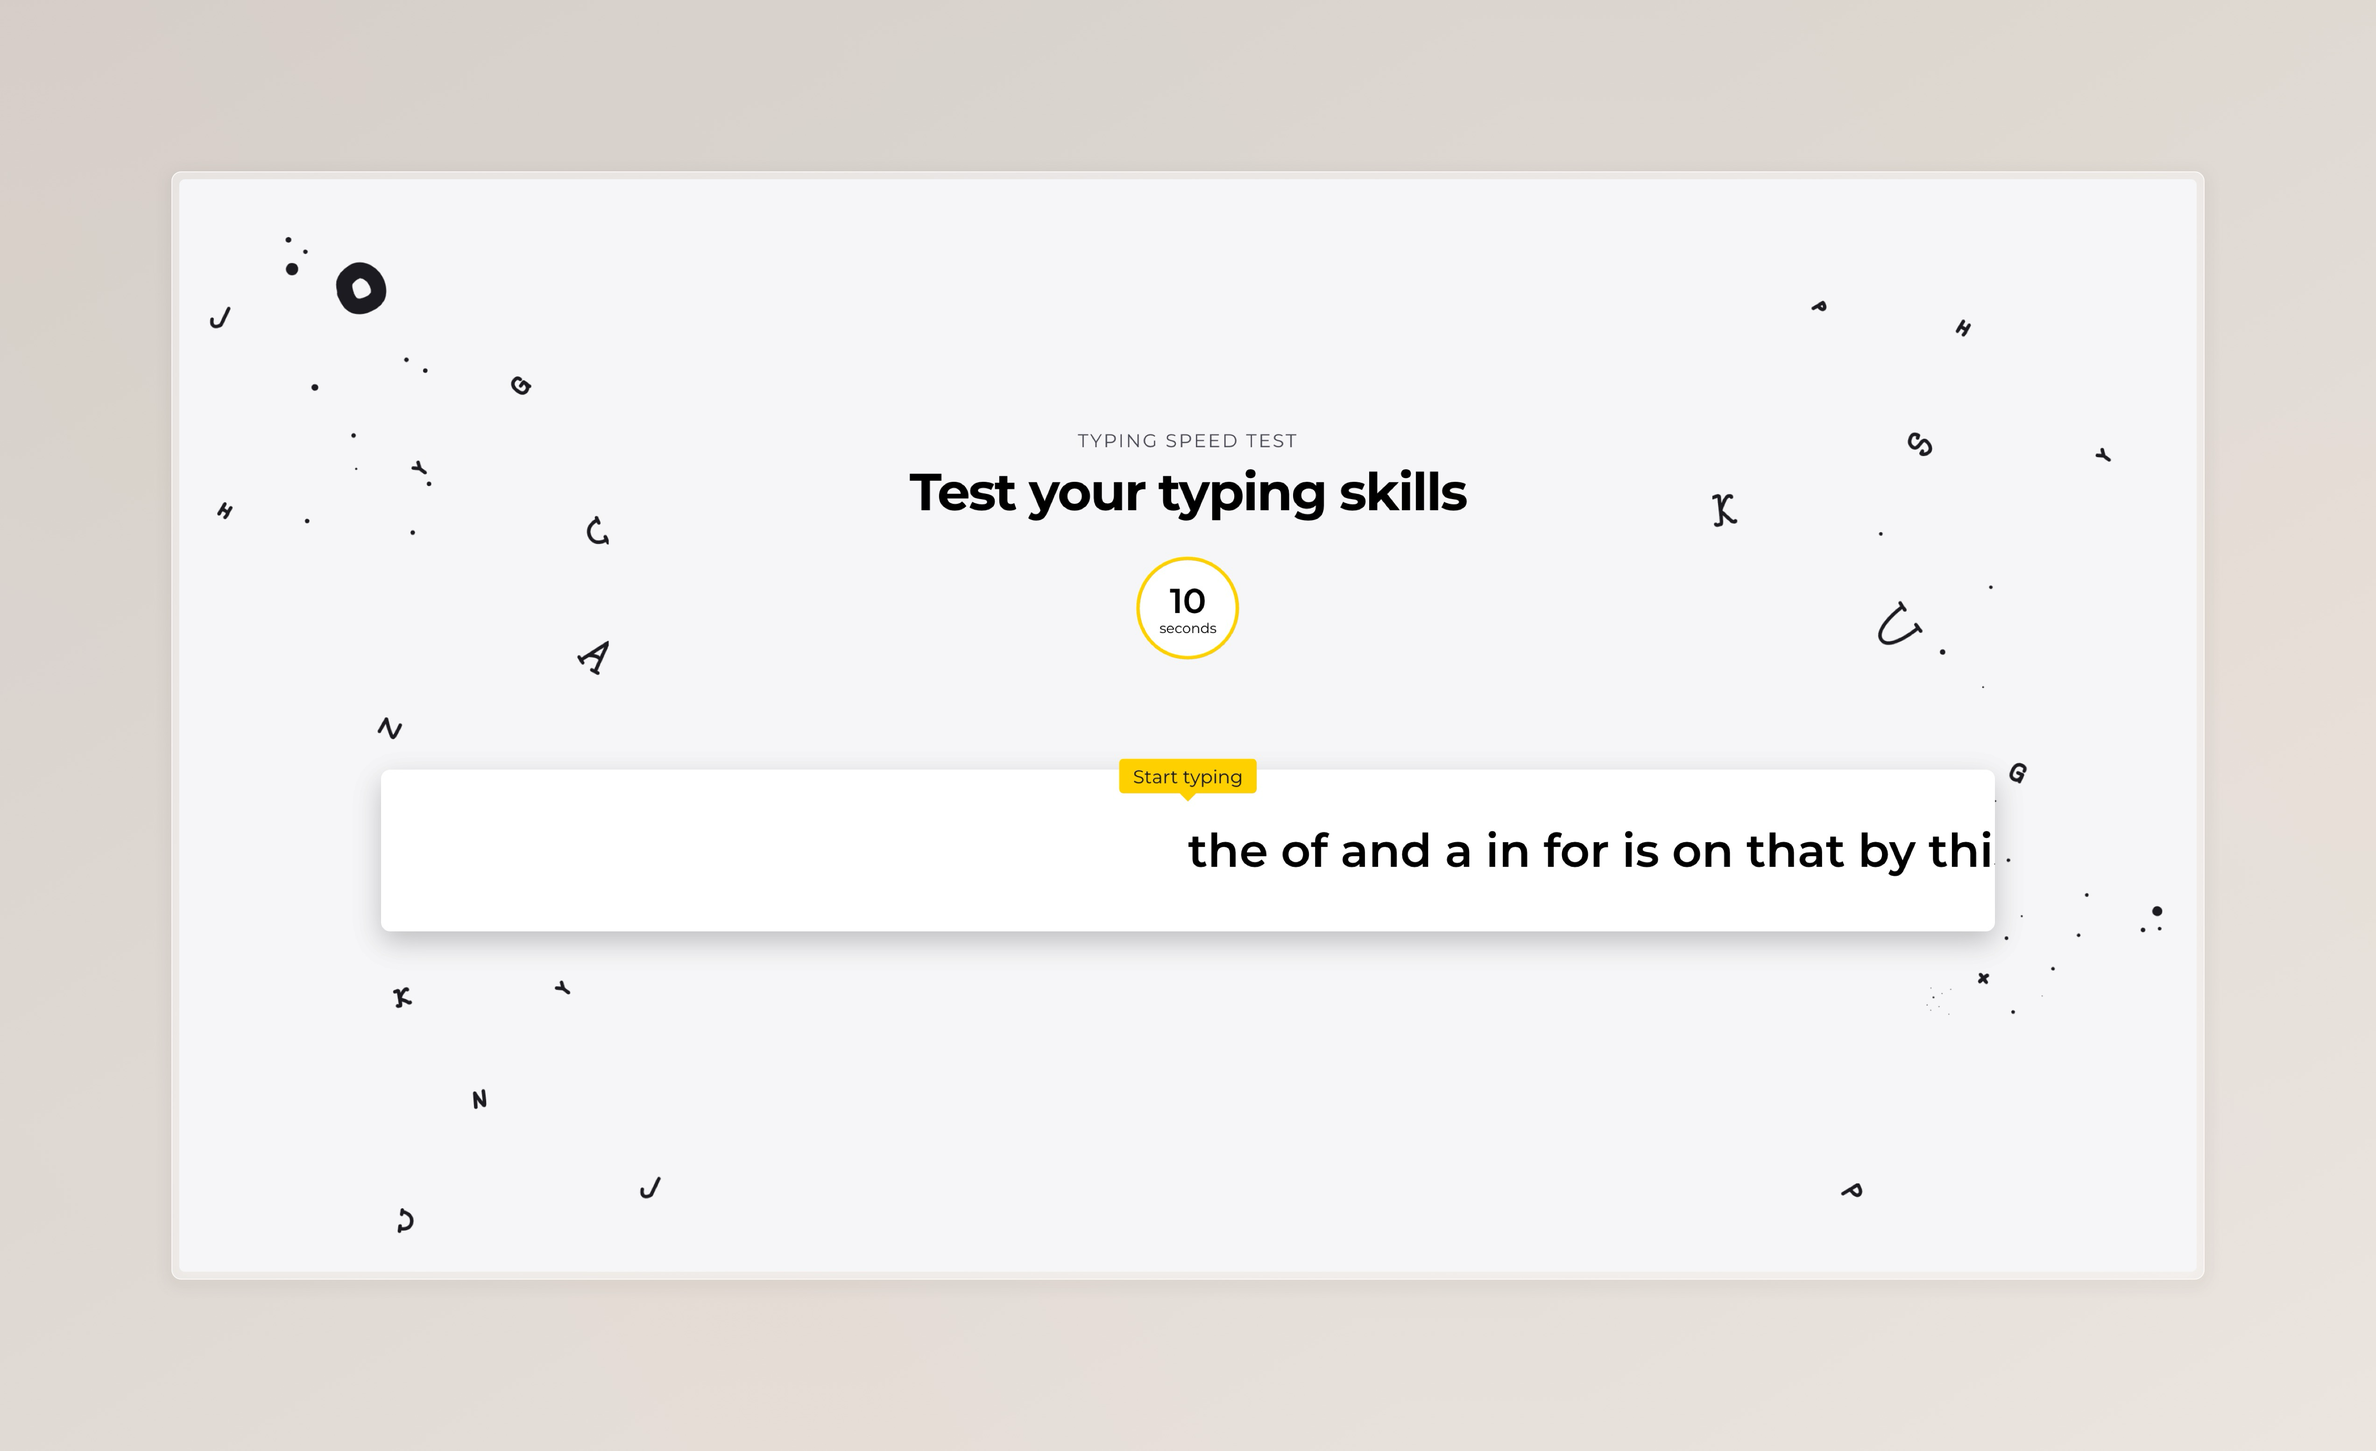
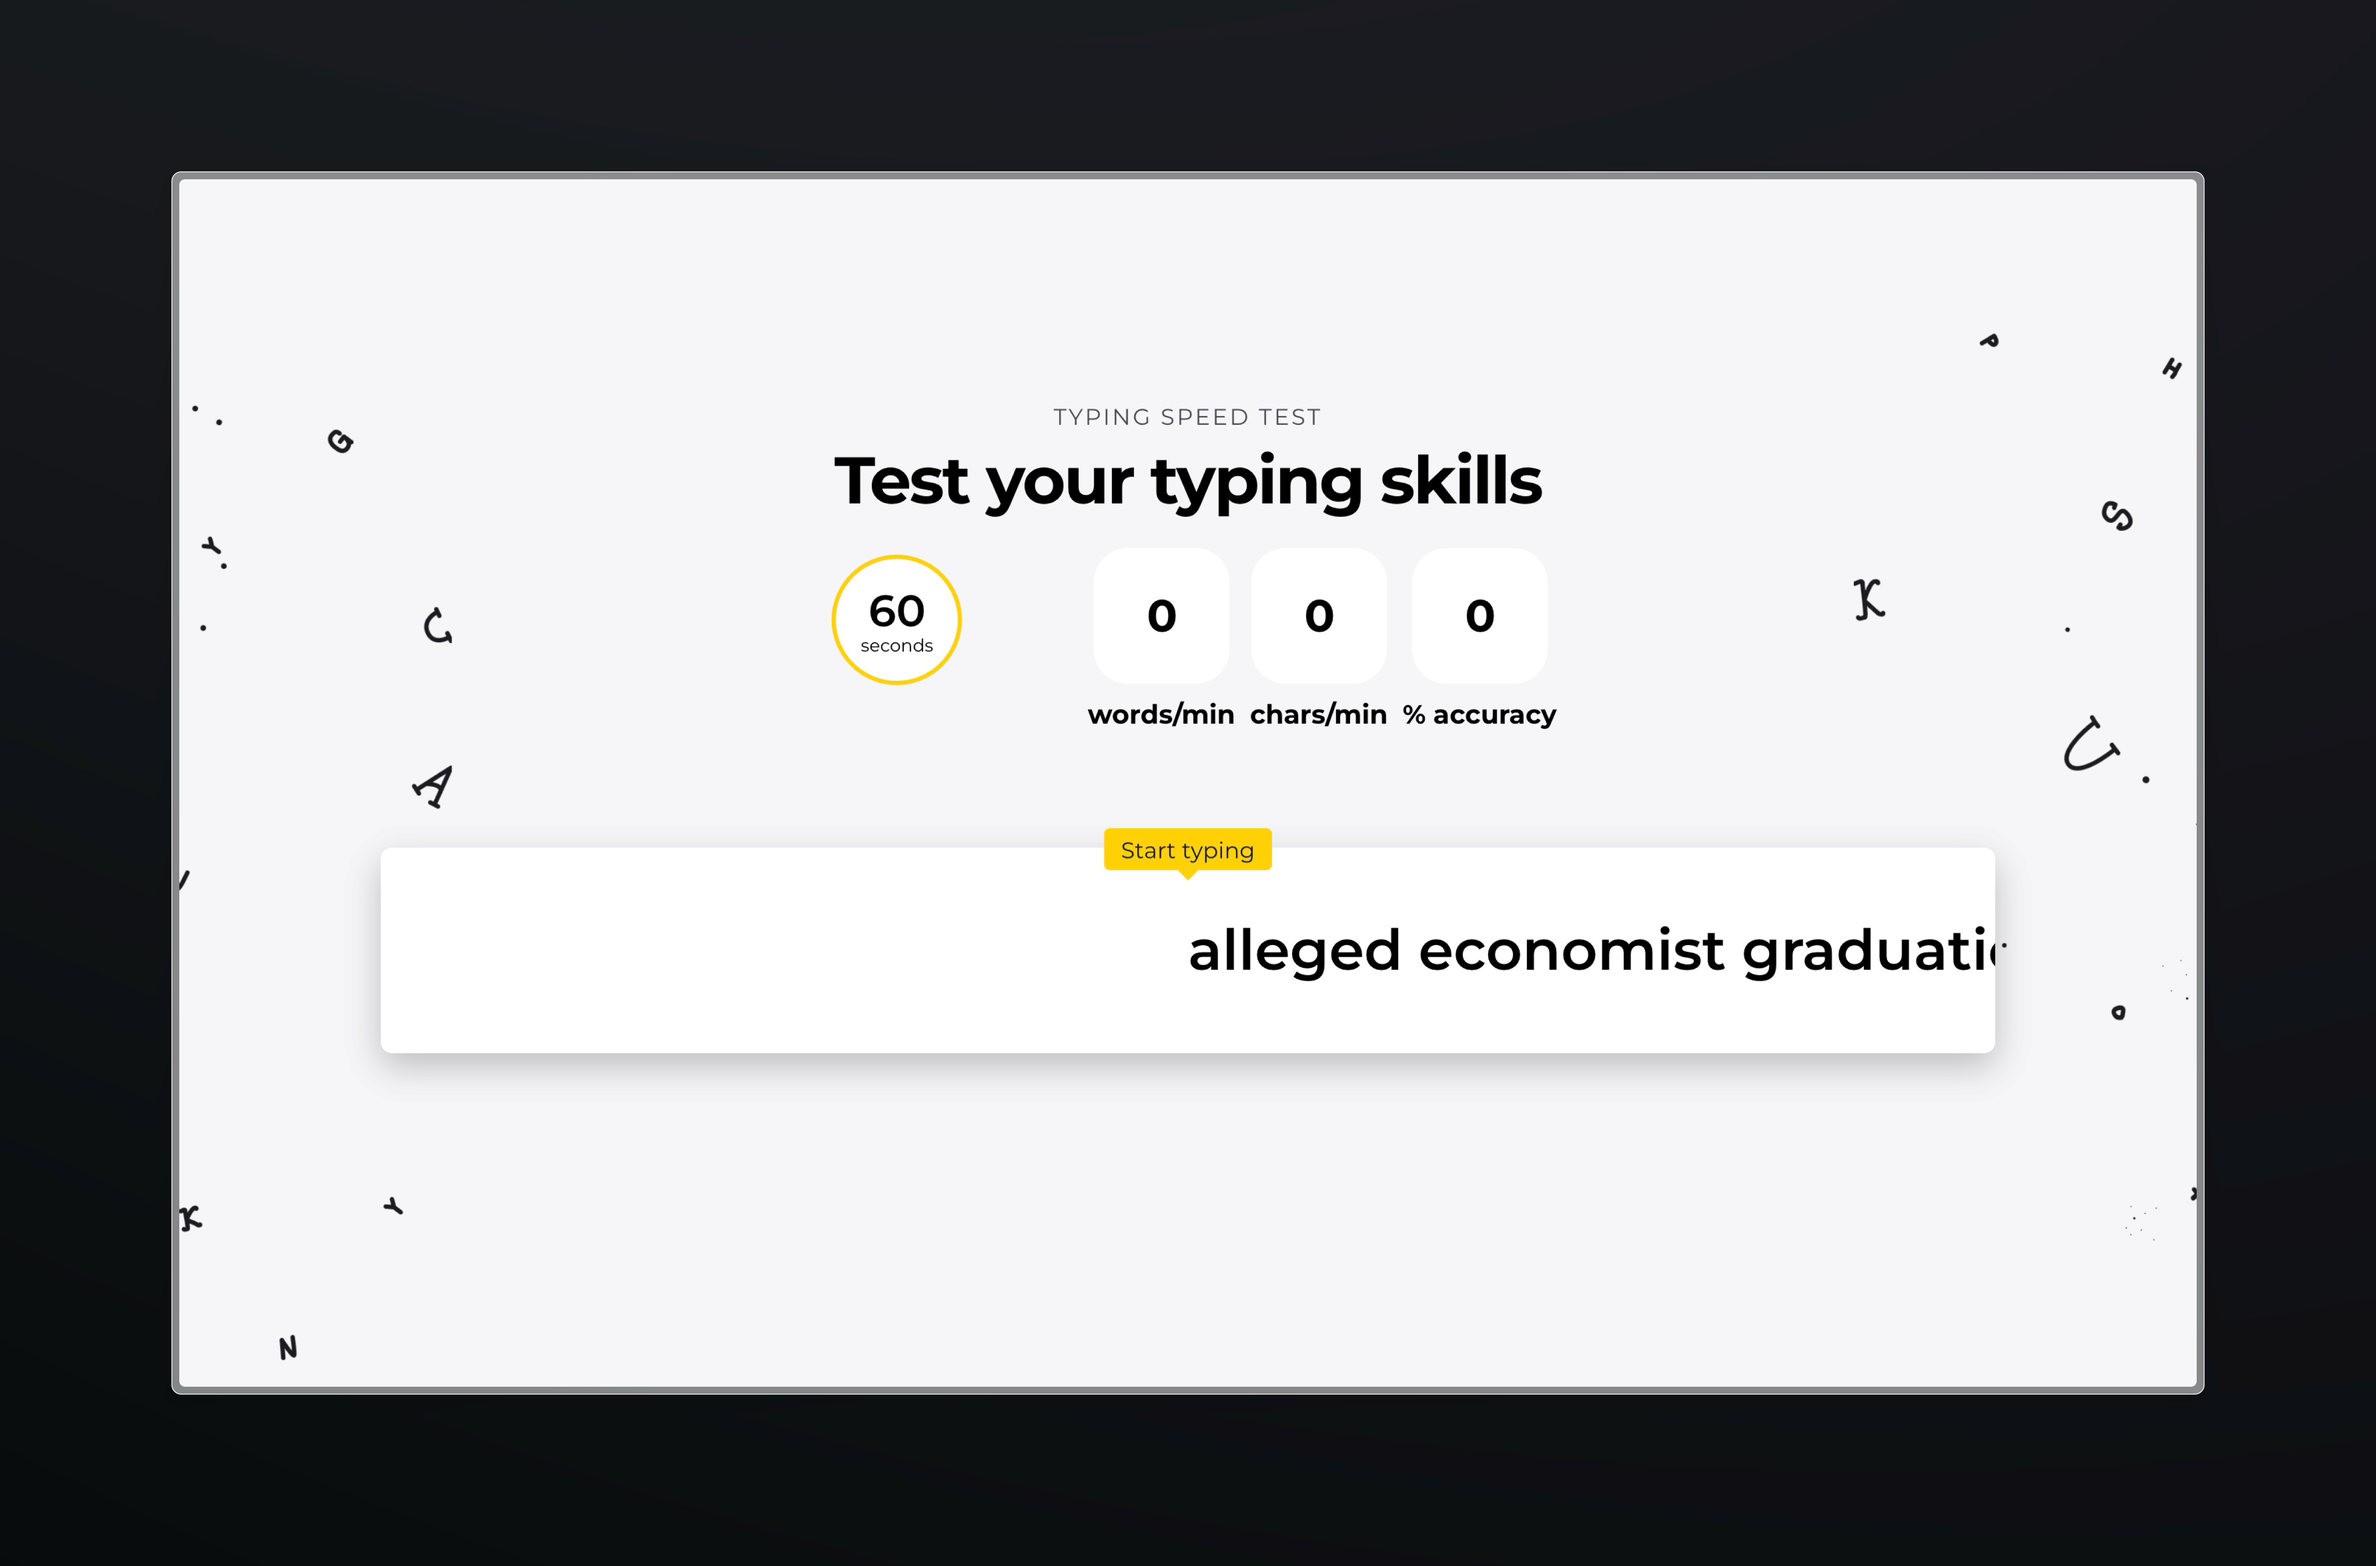
refactor: 💡 Move input's logic from App component
Move TrainerInput's handlers from App component. Add TrainerMetric
component.

diff --git a/src/App.vue b/src/App.vue
@@ -1,5 +1,5 @@
 <script setup lang="ts">
-import { onMounted, ref, watchEffect } from "vue";
+import { ref, watchEffect } from "vue";
 import TrainerLetter, {
   type TrainerLetterProps,
 } from "./components/TrainerLetter.vue";
@@ -7,30 +7,25 @@ import TrainerRestart from "./components/TrainerRestart.vue";
 import TrainerTooltip from "./components/TrainerTooltip.vue";
 import TrainerTimer from "./components/TrainerTimer.vue";
 import TrainerInput from "./components/TrainerInput.vue";
-import { generateTypingWords } from "./utils";
+import TrainerMetric from "./components/TrainerMetric.vue";
 
-const initialValue = generateTypingWords(100).join(" ");
-
-const inputValue = ref("");
 const pressedLetters = ref<TrainerLetterProps[]>([]);
 
+const timerComponent = ref();
+const inputComponent = ref();
+
+const testStarted = ref(false);
 const keyDelta = ref(0);
 
 watchEffect(() => {
-  if (pressedLetters.value.length >= 110) {
-    const delta = 10;
+  const minimalLettersInDOM = 110;
+  const delta = 10;
+
+  if (pressedLetters.value.length >= minimalLettersInDOM) {
     pressedLetters.value.splice(0, delta);
     keyDelta.value += delta;
   }
-
-  if (inputValue.value.length <= 150) {
-    inputValue.value = inputValue.value + generateTypingWords(100).join(" ");
-  }
 });
-
-const testStarted = ref(false);
-
-const timerComponent = ref();
 
 const onStartTest = () => {
   testStarted.value = true;
@@ -43,55 +38,16 @@ const onTestTimeout = () => {
 
 const onRestartTest = () => {
   pressedLetters.value = [];
-  inputValue.value = initialValue;
+  inputComponent.value.onRestartTest();
   timerComponent.value.onResetTimer();
 };
 
-onMounted(() => {
-  inputValue.value = initialValue;
-});
-
-const onKeyDown = (event: KeyboardEvent) => {
-  const isForbidden =
-    event.key === "Delete" ||
-    event.key === "Escape" ||
-    event.key === "CapsLock" ||
-    event.key === "Tab" ||
-    event.key === "Shift" ||
-    event.altKey ||
-    event.ctrlKey ||
-    event.metaKey;
-  const isTrainerInInitialState =
-    !testStarted.value && !isForbidden && pressedLetters.value.length === 0;
-  const isInvalidCharacterPressed = testStarted.value && isForbidden;
-
-  if (isTrainerInInitialState) {
-    onStartTest();
-  } else if (isInvalidCharacterPressed || !testStarted.value) {
-    event.preventDefault();
-  }
+const onRemoveLetter = () => {
+  return pressedLetters.value.pop();
 };
 
-const onBeforeInput = (event: InputEvent) => {
-  const isBackspacePressed = event.inputType === "deleteContentBackward";
-
-  if (!event.data && !isBackspacePressed) {
-    event.preventDefault();
-    return;
-  } else if (isBackspacePressed) {
-    const char = pressedLetters.value.pop();
-    inputValue.value = char!.correctValue + inputValue.value;
-  }
-};
-
-const onInput = (pressedLetter: string | null) => {
-  const validLetter = inputValue.value[0];
-
-  pressedLetters.value.push({
-    value: pressedLetter ?? "",
-    correctValue: validLetter,
-  });
-  inputValue.value = inputValue.value.substring(1, inputValue.value.length);
+const onPush = (pressedLetter: TrainerLetterProps) => {
+  pressedLetters.value.push(pressedLetter);
 };
 </script>
 
@@ -101,7 +57,19 @@ const onInput = (pressedLetter: string | null) => {
       <h1 class="test__title">Typing speed test</h1>
       <h2 class="test__subtitle">Test your typing skills</h2>
 
-      <TrainerTimer ref="timerComponent" @timeout="onTestTimeout" />
+      <div class="test__info">
+        <TrainerTimer
+          class="test__timer"
+          ref="timerComponent"
+          @timeout="onTestTimeout"
+        />
+
+        <div class="test__metrics">
+          <TrainerMetric name="words/min" :value="0" />
+          <TrainerMetric name="chars/min" :value="0" />
+          <TrainerMetric name="% accuracy" :value="0" />
+        </div>
+      </div>
 
       <div class="test__trainer">
         <div class="test__letters">
@@ -114,11 +82,13 @@ const onInput = (pressedLetter: string | null) => {
         </div>
 
         <TrainerInput
+          ref="inputComponent"
           class="test__field"
-          :value="inputValue"
-          @input="onInput"
-          @beforeinput="onBeforeInput"
-          @keydown="onKeyDown"
+          :test-started="testStarted"
+          :dirty="!!pressedLetters.length"
+          :on-remove-letter="onRemoveLetter"
+          @push="onPush"
+          @start-test="onStartTest"
         />
 
         <TrainerTooltip
@@ -180,6 +150,22 @@ const onInput = (pressedLetter: string | null) => {
     line-height: 1.05;
     letter-spacing: -0.03em;
     margin-bottom: 1.5rem;
+  }
+
+  &__info {
+    display: flex;
+    justify-content: center;
+    align-items: center;
+    gap: 5rem;
+  }
+
+  &__timer {
+    margin-top: -1.5rem;
+  }
+
+  &__metrics {
+    display: flex;
+    gap: 10px;
   }
 
   &__trainer {

diff --git a/src/components/TrainerInput.vue b/src/components/TrainerInput.vue
@@ -1,57 +1,117 @@
 <script setup lang="ts">
-import { ref, onMounted, onUpdated } from "vue";
+import { ref, onMounted, onUpdated, watchEffect } from "vue";
+import type { TrainerLetterProps } from "./TrainerLetter.vue";
+import { generateTypingWords } from "../utils";
 
 interface Props {
-  value: string;
+  testStarted: boolean;
+  dirty: boolean;
+  onRemoveLetter: () => TrainerLetterProps | undefined;
 }
 
 interface Emits {
-  (event: "keydown", value: KeyboardEvent): void;
-  (event: "beforeinput", value: InputEvent): void;
-  (event: "input", value: string | null): void;
+  (event: "startTest"): void;
+  (event: "push", payload: TrainerLetterProps): void;
 }
 
-defineProps<Props>();
+interface Expose {
+  onRestartTest: () => void;
+}
+
+const props = defineProps<Props>();
 
 const emit = defineEmits<Emits>();
 
-const inputNode = ref<HTMLInputElement>();
+const textToType = ref("");
+const node = ref<HTMLInputElement>();
 
 onMounted(() => {
-  inputNode.value?.setSelectionRange(0, 0);
+  textToType.value = generateTypingWords(100);
+  node.value?.setSelectionRange(0, 0);
 });
 
 onUpdated(() => {
-  inputNode.value?.setSelectionRange(0, 0);
+  node.value?.setSelectionRange(0, 0);
+});
+
+watchEffect(() => {
+  if (textToType.value.length <= 150) {
+    textToType.value = textToType.value + generateTypingWords(100);
+  }
 });
 
 const onKeyDown = (event: KeyboardEvent) => {
-  emit("keydown", event);
+  const isForbidden =
+    event.key === "Delete" ||
+    event.key === "Escape" ||
+    event.key === "CapsLock" ||
+    event.key === "Tab" ||
+    event.key === "Shift" ||
+    event.altKey ||
+    event.ctrlKey ||
+    event.metaKey;
+
+  const isTrainerInInitialState =
+    !props.testStarted && !isForbidden && !props.dirty;
+  const isInvalidCharacterPressed = props.testStarted && isForbidden;
+
+  if (isTrainerInInitialState) {
+    emit("startTest");
+  } else if (isInvalidCharacterPressed || !props.testStarted) {
+    event.preventDefault();
+  }
 };
 
 const onBeforeInput = (_event: Event) => {
   const event = _event as InputEvent;
-  emit("beforeinput", event);
+
+  const isBackspacePressed = event.inputType === "deleteContentBackward";
+
+  if (!event.data && !isBackspacePressed) {
+    event.preventDefault();
+    return;
+  } else if (isBackspacePressed) {
+    const char = props.onRemoveLetter();
+
+    if (char) {
+      textToType.value = char!.correctValue + textToType.value;
+    }
+  }
 };
 
 const onInput = (event: Event) => {
-  const pressedLetter = (event as InputEvent).data;
-  emit("input", pressedLetter);
+  const validLetter = textToType.value[0];
+
+  emit("push", {
+    value: (event as InputEvent).data ?? "",
+    correctValue: validLetter,
+  });
+
+  textToType.value = textToType.value.substring(1, textToType.value.length);
 };
+
+const onRestartTest = () => {
+  textToType.value = generateTypingWords(100);
+};
+
+defineExpose<Expose>({
+  onRestartTest,
+});
 </script>
 
 <template>
   <input
-    ref="inputNode"
+    ref="node"
     class="field"
+    type="text"
     autocomplete="off"
-    :value="value"
+    spellcheck="false"
+    :value="textToType"
     @input="onInput"
     @beforeinput="onBeforeInput"
     @keydown="onKeyDown"
     @paste.prevent=""
     @drop.prevent=""
-    type="text"
   />
 </template>
 

diff --git a/src/components/TrainerMetric.vue b/src/components/TrainerMetric.vue
@@ -1,0 +1,41 @@
+<script setup lang="ts">
+interface Props {
+  name: string;
+  value: number;
+}
+
+defineProps<Props>();
+</script>
+
+<template>
+  <div class="metric">
+    <h3>{{ name }}</h3>
+
+    <div class="metric__container">
+      {{ value.toFixed(0).toString() }}
+    </div>
+  </div>
+</template>
+
+<style scoped lang="scss">
+.metric {
+  display: inline-flex;
+  align-items: center;
+  flex-direction: column-reverse;
+  gap: 0.5rem;
+
+  &__container {
+    display: flex;
+    align-items: center;
+    justify-content: center;
+    width: 6rem;
+    aspect-ratio: 1;
+    background-color: #fff;
+    border-radius: 1.5rem;
+
+    font-size: 2rem;
+    font-weight: 700;
+    letter-spacing: -0.03em;
+  }
+}
+</style>

diff --git a/src/components/TrainerTimer.vue b/src/components/TrainerTimer.vue
@@ -8,6 +8,7 @@ interface Props {
 interface Expose {
   onStartTimer: () => void;
   onResetTimer: () => void;
+  getCurrentTime: () => number;
 }
 
 interface Emits {
@@ -44,6 +45,10 @@ const onStopTimer = () => {
   clearInterval(interval.value);
 };
 
+const getCurrentTime = () => {
+  return props.seconds - time.value;
+};
+
 const onResetTimer = () => {
   onStopTimer();
   interval.value = undefined;
@@ -57,6 +62,7 @@ onUnmounted(() => {
 defineExpose<Expose>({
   onStartTimer,
   onResetTimer,
+  getCurrentTime,
 });
 </script>
 

diff --git a/src/utils/generateTypingWords.ts b/src/utils/generateTypingWords.ts
@@ -6,7 +6,7 @@ export const generateTypingWords = (wordsCount = 100) => {
     words.push(getRandomWord());
   }
 
-  return words;
+  return words.join(" ");
 };
 
 export const getRandomWord = () => {

diff --git a/src/constants/words.ts b/src/constants/words.ts
@@ -876,7 +876,7 @@ export const WORDS = [
   "method",
   "purchase",
   "customers",
-  "active",
+  "dirty",
   "response",
   "practice",
   "hardware",
